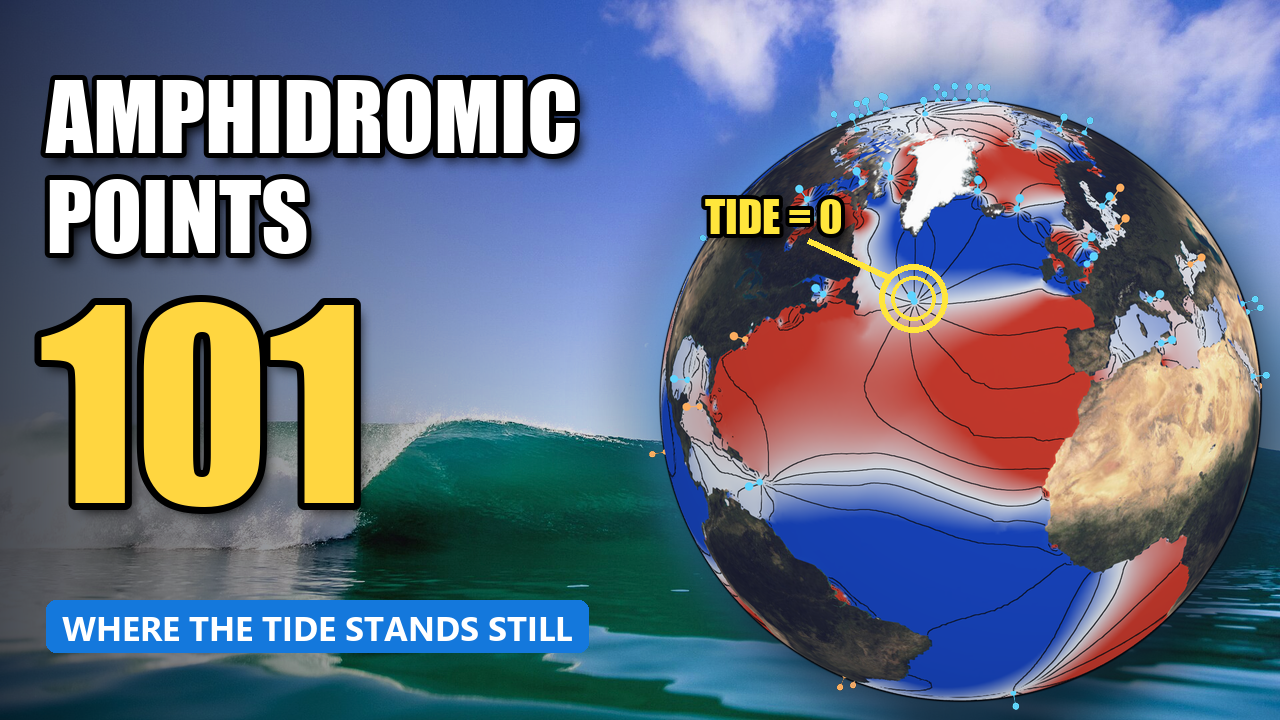
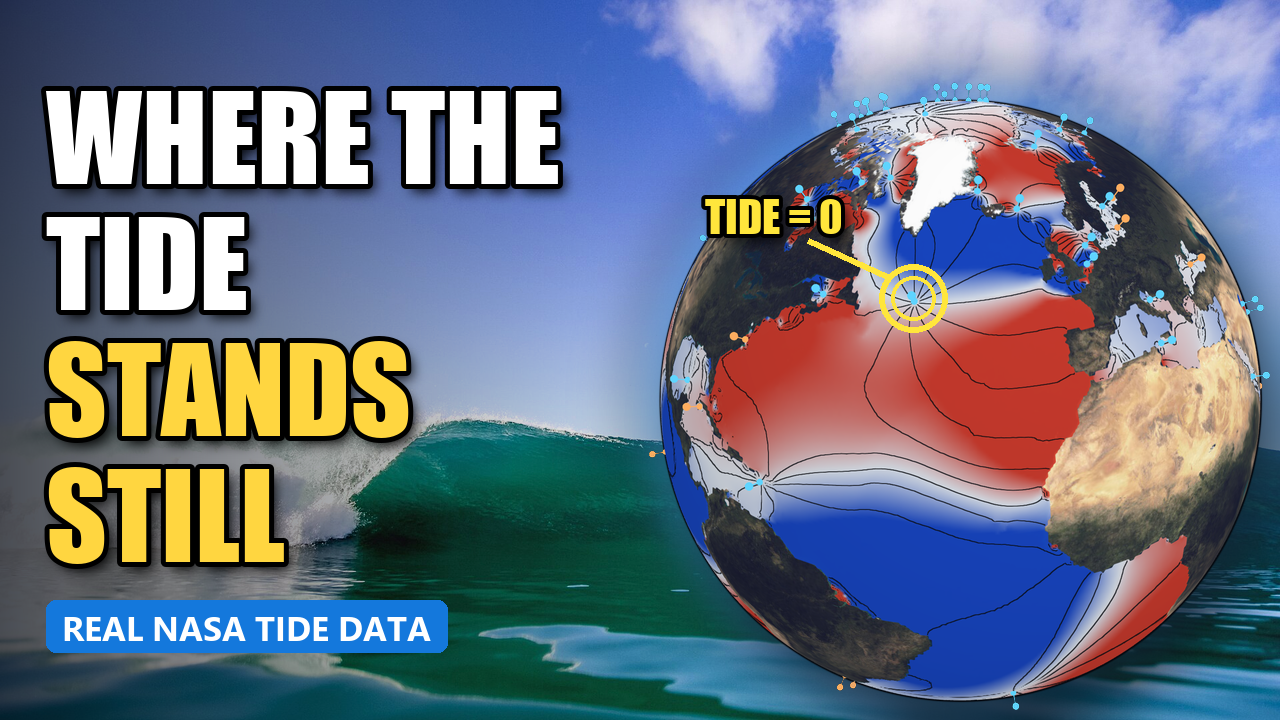
Restore original thumbnail; README title back to Where the Tide Stands Still

Changed region(s): [[0.0, 0.0917, 0.4688, 0.825], [0.0312, 0.825, 0.4688, 0.9167]]

diff --git a/liquid-universe/README.md b/liquid-universe/README.md
@@ -1,8 +1,8 @@
-# Amphidromic Points 101: Where the Tide Stands Still
+# Where the Tide Stands Still: Amphidromic Points
 
 A beginner-friendly introduction to **amphidromic points**, the places in the ocean where the tide barely rises or falls even though high and low tide sweep around them like the hands of a clock. Two interactive models let you see it for yourself.
 
-![Amphidromic Points 101](youtube_thumbnail_barrel.png)
+![Where the Tide Stands Still](youtube_thumbnail_barrel.png)
 
 ## Try them (they run in your browser, nothing to install)
 
